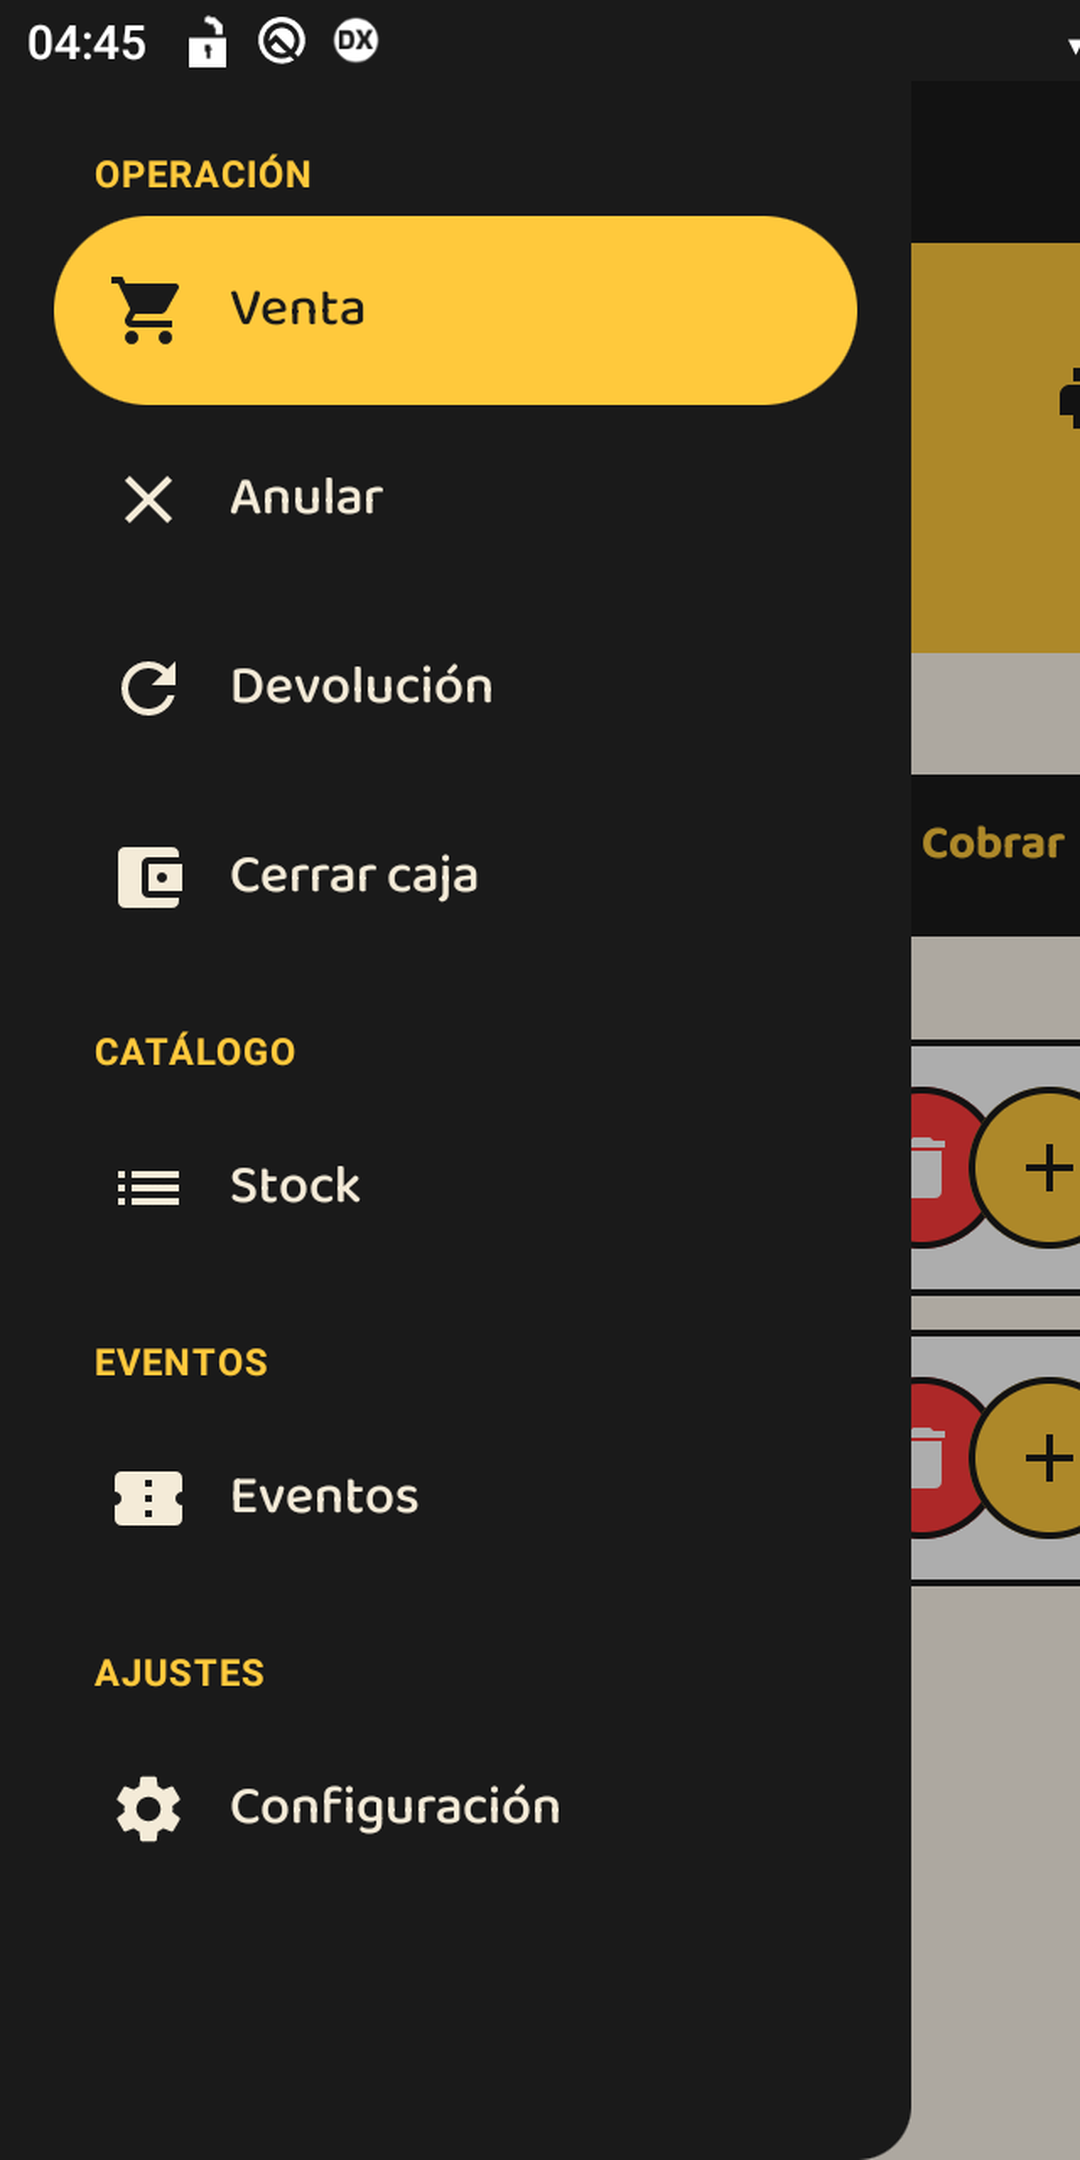
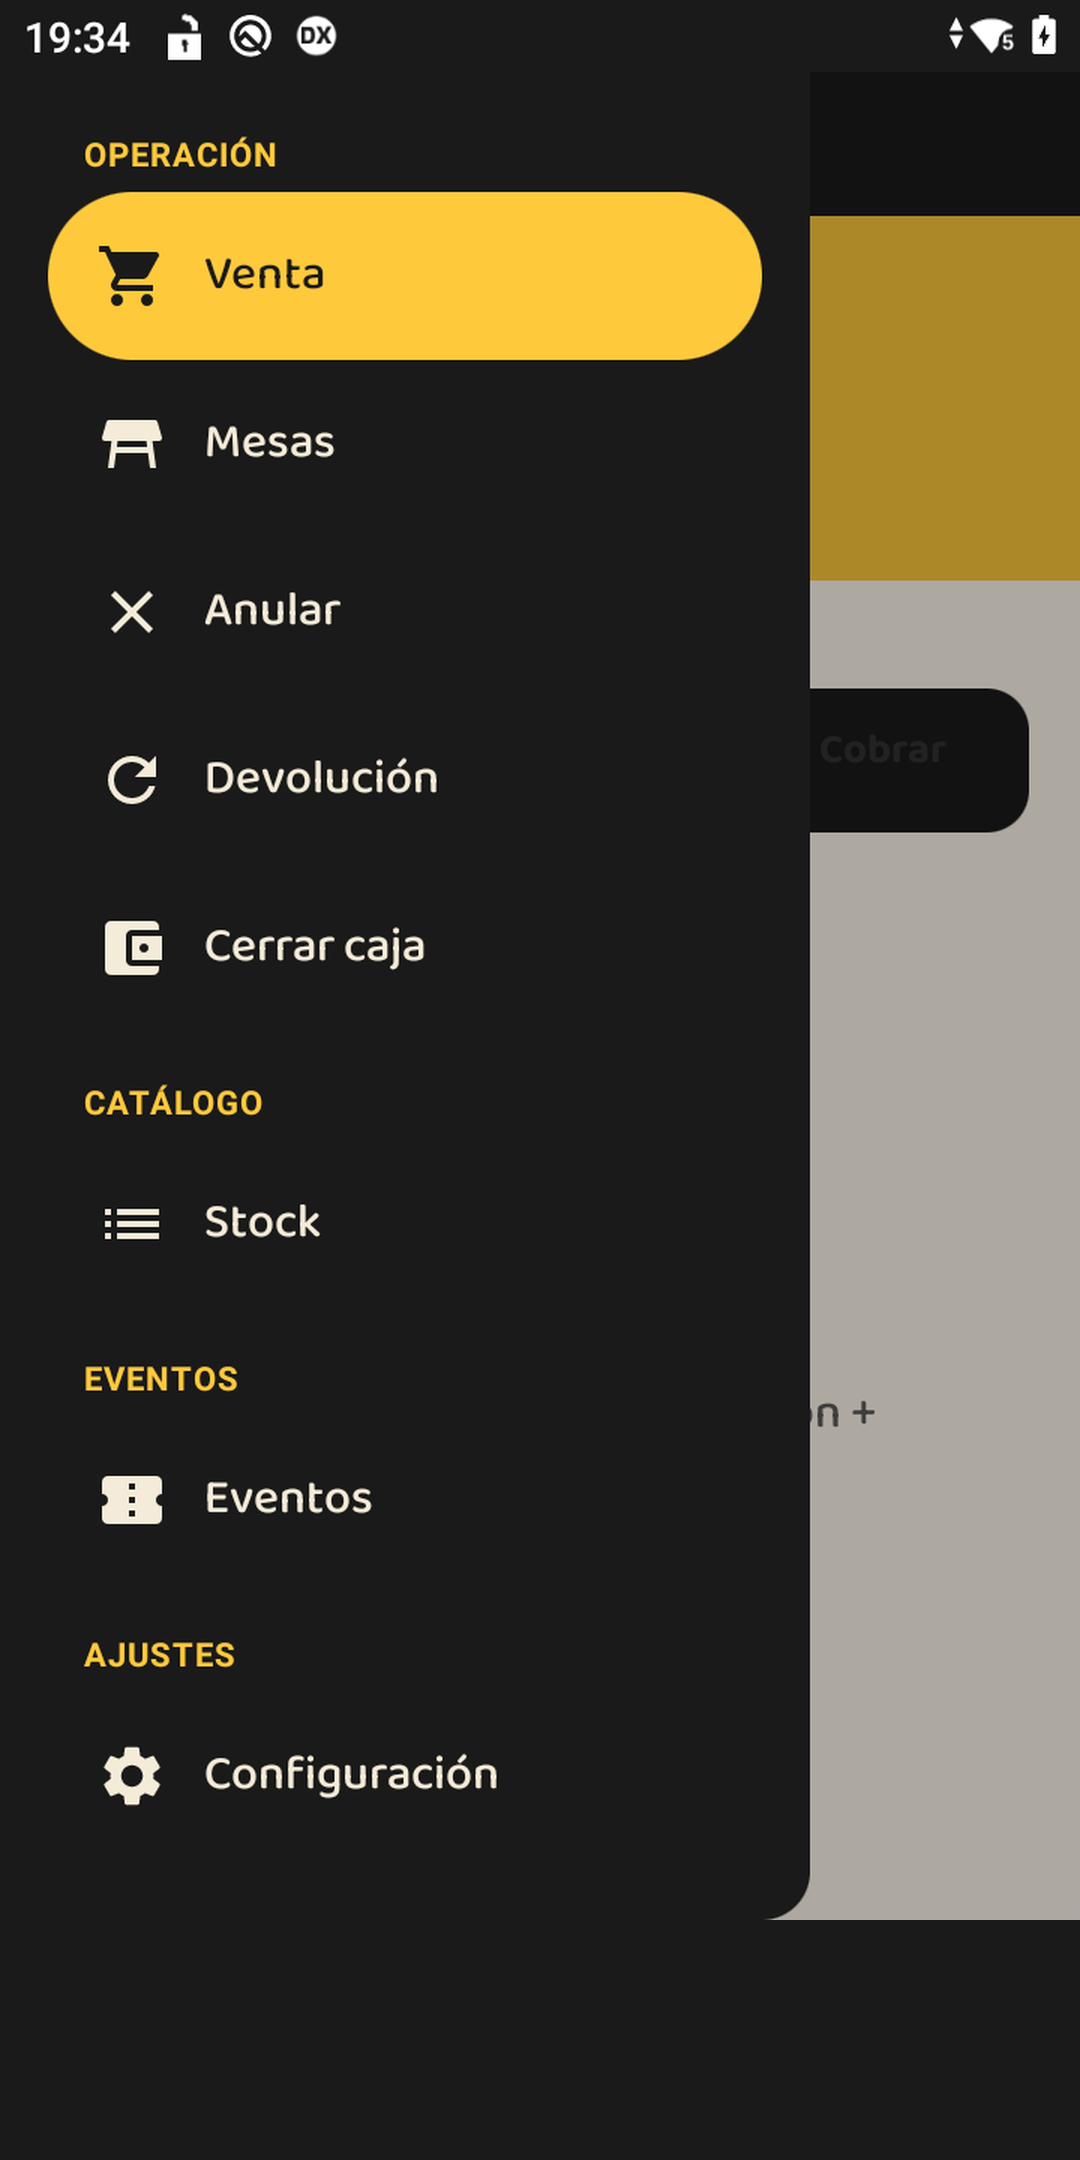
Landing: capturas de Venta y del menú sin el botón de impresora y con Mesas

diff --git a/index.html b/index.html
@@ -375,7 +375,7 @@
         <h3>Facilidad</h3>
         <p class="claim">Sin manual, sin capacitaciones eternas.</p>
         <ul>
-          <li>Botones grandes y un menú lateral con Venta, Anular, Caja, Stock y Eventos.</li>
+          <li>Botones grandes y un menú lateral con Venta, Mesas, Anular, Caja, Stock y Eventos.</li>
           <li>Modo claro u oscuro, a gusto de cada mostrador.</li>
           <li>Cada caja se conecta escaneando un QR: el System ID y los datos del comercio llegan solos.</li>
           <li>Productos y precios se cargan en el panel y llegan solos a cada caja.</li>
@@ -465,7 +465,7 @@
           <h2 style="margin:0">kaja, la caja de tu mostrador.</h2>
         </div>
       </div>
-      <p>Android nativa, pensada para terminales de cobro con impresora y lector integrados. Un menú lateral con Venta, Anular, Devolución, Caja, Stock, Eventos y Configuración, todo a un toque, en modo claro u oscuro.</p>
+      <p>Android nativa, pensada para terminales de cobro con impresora y lector integrados. Un menú lateral con Venta, Mesas, Anular, Devolución, Caja, Stock, Eventos y Configuración, todo a un toque, en modo claro u oscuro.</p>
     </div>
 
     <div class="phones">
